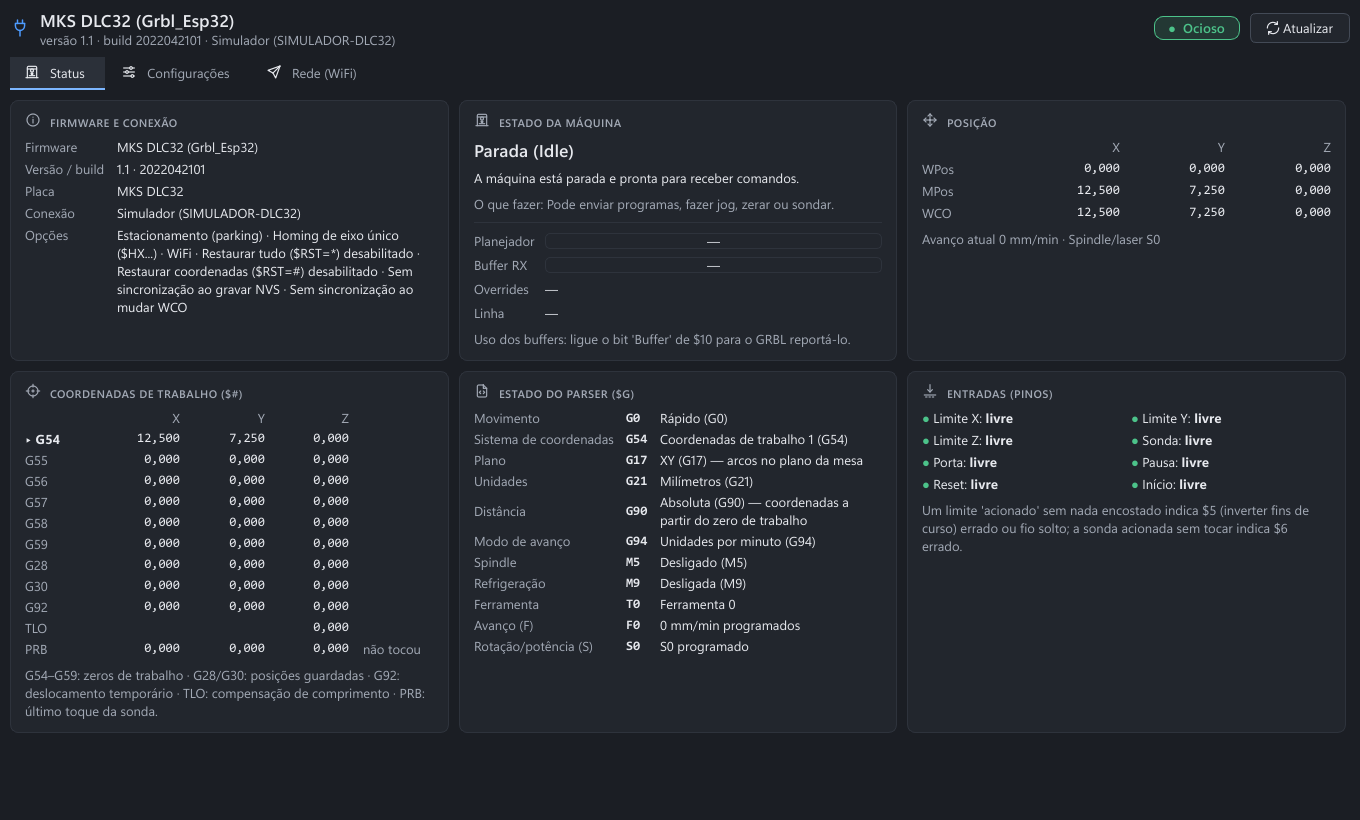
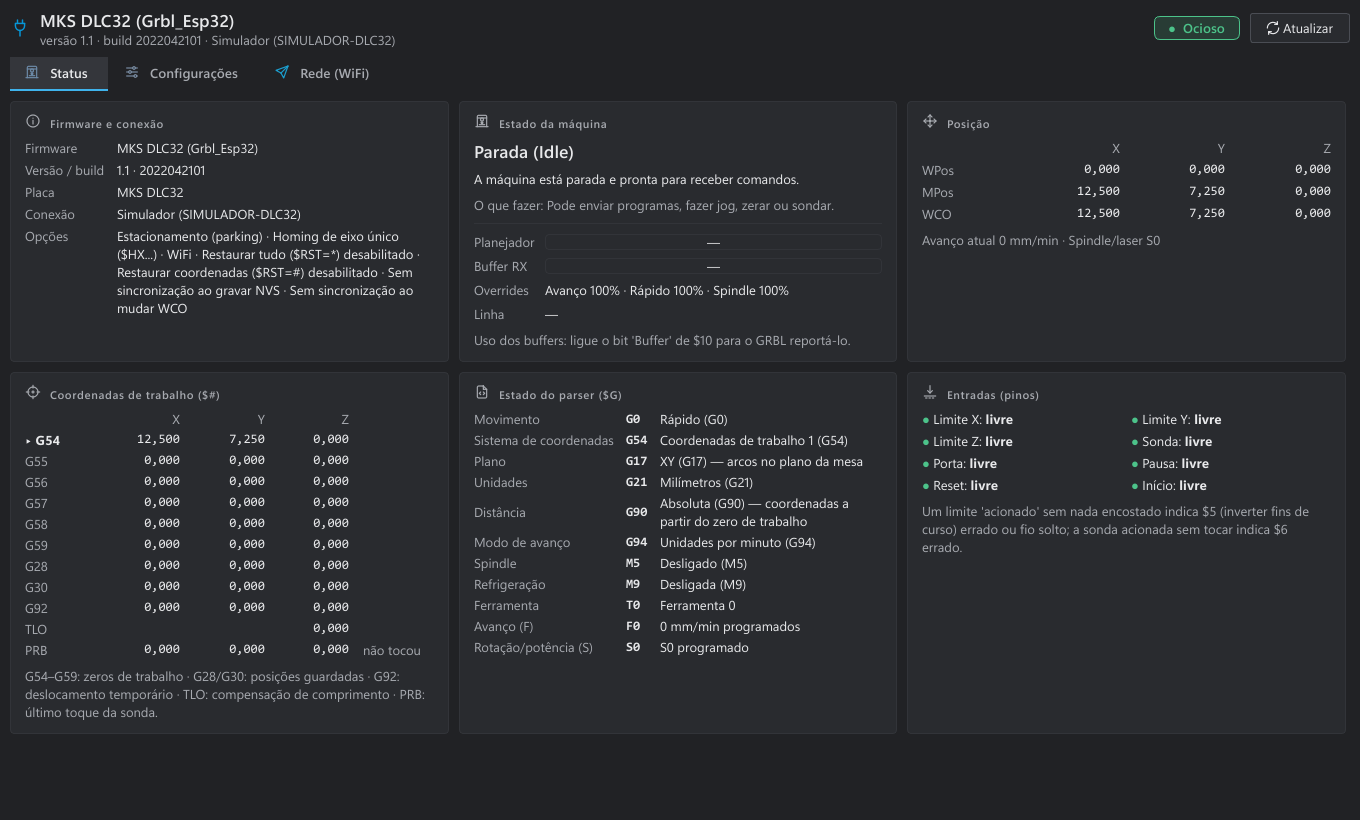
docs: atualiza README, CHANGELOG, AGENTS e capturas de tela
Claude-Session: https://claude.ai/code/session_01G2gJ6e83D3Mbc7DnEztVLo

diff --git a/AGENTS.md b/AGENTS.md
@@ -19,7 +19,7 @@ Máquina real do dono: **MKS DLC32 (Grbl_Esp32, firmware 1.1h)**, porta **COM19*
 
 ```bash
 .venv/Scripts/python.exe run.py                 # app (ou duplo clique em BrokCAM.bat)
-.venv/Scripts/python.exe -m pytest -q           # suíte completa: ~284 testes, ~4–5 min
+.venv/Scripts/python.exe -m pytest -q           # suíte completa: ~350 testes, ~4–5 min
 .venv/Scripts/python.exe -m pytest -q tests/test_cam.py   # um arquivo
 .venv/Scripts/python.exe -m pyflakes brokcam    # lint rápido (instalado no venv)
 ```
@@ -46,7 +46,7 @@ Dependências só descem: `ui → machine/gcode/cam → parsers → core`. **Som
 | `core/` | `model.py`, `params.py`, `serialize.py` | Dataclasses compartilhadas (`GerberLayer`, `DrillLayer`, `GeometryLayer`, `Tool`, `CutParams`, `PathOp`, `Job`); sistema de opções explicadas; JSON de jobs/camadas |
 | `parsers/` | `gerber.py`, `excellon.py`, `detect.py` | RS-274X/X2 e Excellon vetorizados (shapely 2); `load_file`, `guess_role` |
 | `cam/` | `isolation.py`, `ncc.py`, `cutout.py`, `drilling.py`, `panelize.py`, `optimize.py`, `operations.py`, `common.py`, `tools.py`, `library.py`, `edit.py` | Operações puras `func(layer, settings, progress=None, cancel=None) -> Job`; registro `OPERATIONS`; biblioteca de ferramentas; edição manual de caminhos |
-| `gcode/` | `grbl.py`, `preview.py`, `autolevel.py` | Pós-processador GRBL (`GRBL_POST`, `generate_gcode/generate_program`), parser para preview/tempo, heightmap |
+| `gcode/` | `grbl.py`, `preview.py`, `autolevel.py`, `importer.py` | Pós-processador GRBL (`GRBL_POST`, `generate_gcode/generate_program`), parser para preview/tempo, heightmap, importação de G-code → `Job` + `GeometryLayer` (`GCODE_IMPORT`) |
 | `machine/` | `grbl.py`, `transport.py`, `simulator.py`, `grbl_codes.py`, `firmware.py` | Controlador GRBL em Python puro (threads + callbacks), serial/TCP, simulador, textos de erro/alarme/`$$`, catálogo Grbl_Esp32/DLC32 |
 | `ui/` | ver abaixo | PySide6 |
 
@@ -62,7 +62,7 @@ UI (`brokcam/ui/`):
 - `param_form.py` — formulário automático a partir de `ParamGroup`, ajuda contextual, presets.
 - `machine_panel.py` (`MachinePanel`, `GrblBridge`), `machine_tools.py` (posição/offset Z, sonda, heightmap, fins de curso, macros), `machine_config.py` (`$$` e config DLC32).
 - Diálogos: `align_dialog.py`, `double_sided.py`, `tool_library.py`, `preferences.py`, `help_dialogs.py`, `wizard.py`, `welcome.py`.
-- `theme.py` (paletas escuro/claro/alto contraste + QSS), `icons.py` + `icons/*.svg` (ícones próprios, recoloridos pelo tema), `backend.py` (fachada para os módulos não-UI), `workers.py` (`QThreadPool`), `settings.py` (`%APPDATA%\BrokCAM`).
+- `theme.py` (bases `BASES` escuro/claro/grafite/azul-aço/meia-noite + alto contraste, cor de destaque `ACCENTS` → `derive_palette` com ajuste AA automático, `Style` (degradê, cantos, densidade, ícones coloridos `ICON_TINTS`) e QSS), `icons.py` + `icons/*.svg` (ícones próprios, recoloridos pelo tema), `backend.py` (fachada para os módulos não-UI), `workers.py` (`QThreadPool`), `settings.py` (`%APPDATA%\BrokCAM`).
 
 `_reference/` = FlatCAM decompilado, **só consulta** (não importe, não copie a arquitetura).
 
@@ -125,6 +125,25 @@ UI (`brokcam/ui/`):
   devolve essa broca por T e alimenta a coluna *Broca* da tabela (só visível quando difere do furo).
   Nomes de job repetidos ganham " (2)" (`MainWindow._unique_job_name`). O comentário do G-code é
   `(Op Tn da maquina … : Furos broca Ø… - arquivo Tm)`.
+- **Furação — broca escolhida à mão** (`mapping="manual"`): `bit_map` = `"0,79=0,8; 1,02=1; 3,2=fresa"`
+  (`parse_bit_map`/`format_bit_map`, casamento por Ø com tolerância 0,001 mm). Diâmetros sem escolha seguem
+  `available_drills` + `library_rule`; escolhidos à mão nunca são fresados automaticamente (só com `fresa`).
+  Na UI: `DrillTable(multi=True)` + `OperationPanel._assign_bits` (botão *Atribuir broca*); ao sair de outro modo
+  só as linhas cuja broca mudaria são fixadas (as demais continuam "automáticas", sem ✎).
+- **Importar G-code** (`gcode/importer.py`): blocos por troca de ferramenta / comentário `(Op …)`; corte = avanço
+  com Z ≤ `cut_z_threshold`; descida+subida sem XY = furo; passadas repetidas (inclusive em zigue-zague) =
+  multiprofundidade (`depth_per_pass` = maior passo entre níveis); profundidades diferentes = ops separadas com a
+  mesma ferramenta. O job sai com `settings["edited"]=True, "imported"=True` (salvo com os caminhos no `.bcam`),
+  `job.gcode` = texto original (enviado sem mudanças até editar; `settings["regenerated"]` após o pós) e
+  `source_id` = a `GeometryLayer` criada (linhas + círculos dos furos; oculta se `make_geometry=False`).
+  `open_files` com `.nc` → `import_gcode_files`; `view_gcode_dialog` mantém o "só visualizar/enviar".
+  Inspetor: tabela *Ferramentas e cortes* (`_add_imported_params`, uma coluna por op) → `editOpsRequested` →
+  `EditJobOpsCmd`. `open_project` aceita job com `ops` e `source=-1`.
+- **Aparência:** `MainWindow._build_appearance_menu` (Exibir › Aparência e botão da faixa) grava `theme`, `accent`,
+  `accent_custom`, `canvas_style`, `corners`, `density`, `colored_icons` (grupo `ui`) e chama
+  `theme.manager().configure(**_style_kwargs())`. Use `palette().accent_fg` (não `accent`) quando o destaque for COR
+  DE TEXTO; ícone sobre botão `primary` sempre com `icon(nome, "accent_text")`. O degradê do canvas é fixo na tela
+  (`drawBackground` + `scrollContentsBy`). Em QSS, subcontrole antes do estado (`QCheckBox::indicator:focus`).
 - **Nomes de arquivo G-code:** sempre por `main_window.safe_gcode_filename` (ASCII, vírgula decimal → `-`).
   `save_all_gcode` (Ctrl+Shift+E) grava um `.nc` por caminho numa pasta, perguntando antes de sobrescrever.
 - **Deslocar/espelhar camada sem grupo** (`Project.set_layer_transform`) também move os caminhos dela

diff --git a/CHANGELOG.md b/CHANGELOG.md
@@ -7,7 +7,35 @@ usa [Versionamento Semântico](https://semver.org/lang/pt-BR/) — veja
 
 ## [Não lançado]
 
-_Nada ainda._
+### Adicionado
+- **Furação — escolher a broca de cada diâmetro** (fluxo do FlatCAM): nova *Associação de
+  diâmetros → Escolher a broca de cada diâmetro*. Na tabela *Diâmetros de furo* selecione vários
+  diâmetros (Ctrl/Shift+clique) e use *Atribuir broca aos selecionados* (brocas da lista, outro
+  diâmetro, o próprio diâmetro, fresar com a fresa de topo ou automático). *Gerar caminho* faz
+  tudo num só G-code, com uma pausa de troca por broca. A escolha fica em `bit_map`
+  (`0,79=0,8; 1,02=1; 3,2=fresa`), marcada com ✎ na coluna *Broca*; diâmetros sem escolha seguem
+  a regra da lista de brocas. *Gerar os N diâmetros num G-code* gera só os selecionados.
+- **Abrir G-code como caminhos editáveis** (*Arquivo → Importar G-code como caminhos…*,
+  Ctrl+Shift+O; também ao abrir/arrastar `.nc`): cada arquivo vira um caminho + uma camada de
+  geometria (vários arquivos = um grupo). Reconhece trocas de ferramenta, furos (inclusive em
+  bicadas e ciclos G81/G83), passadas repetidas (viram multiprofundidade), arcos, polegadas e
+  laser; lê Ø/formato da ferramenta dos comentários do BrokCAM/FlatCAM. Sem editar, o envio usa o
+  texto original; a tabela *Ferramentas e cortes* do inspetor muda Ø, Z, avanços e rotação
+  (Ctrl+Z desfaz) e o G-code passa a ser gerado pelo pós-processador. Salvo no `.bcam`.
+  Opções em *Preferências → Importar G-code*. O antigo "só visualizar/enviar" continua em
+  *Arquivo → Abrir G-code só para visualizar/enviar…* e no botão *Abrir…* do painel G-code.
+- **Interface estilo CAD (Fusion 360 / Inventor):** temas *Grafite*, *Azul-aço* e *Meia-noite*
+  além de Claro/Escuro (cinzas neutros redesenhados) e Alto contraste; **cor de destaque**
+  (11 cores ou personalizada, sempre ajustada para AA); **fundo em degradê** no canvas e na tela
+  inicial; **ícones coloridos**; **cantos** (suaves/arredondados/retos) e **densidade**
+  (confortável/compacta). Menu *Exibir → Aparência* e botão de aparência na faixa de comandos.
+- Seletor *Preparar/Máquina* no início da faixa (como o seletor de espaço do Fusion) e títulos
+  dos painéis em versalete.
+
+### Corrigido
+- Caixas de seleção dos formulários apareciam com uma borda de foco em volta do campo inteiro.
+- Ícones de botões principais (*Abrir arquivos…*, *Conectar*, *Iniciar*) sem a cor de texto do
+  botão.
 
 ## [0.3.0] — 2026-10-30
 

diff --git a/README.md b/README.md
@@ -39,10 +39,18 @@ fluxo do FlatCAM com outra proposta:
 - **Isolamento de trilhas** com fresa em V ou de topo, vários passes e aviso de curtos entre trilhas.
 - **Limpeza de cobre (NCC)**, **recorte com pontes**, **painelização** e **placas dupla face**.
 - **Furação por diâmetro:** cada diâmetro com cor própria e furo no tamanho real; tabela com
-  contagem por broca; um G-code por broca com um clique.
+  contagem por broca; um G-code por broca com um clique — ou **escolha a broca de cada
+  diâmetro** (vários diâmetros → uma broca real, como no FlatCAM) e gere tudo num só G-code,
+  com uma troca por broca.
+- **Abrir G-code como projeto:** arquivos `.nc`/`.gcode` (do BrokCAM, FlatCAM ou outro CAM) viram
+  caminhos editáveis + geometria — mova com a placa, edite caminhos, troque profundidade/avanço/
+  rotação e gere o G-code de novo.
 - **Biblioteca de ferramentas** e **presets** com os dados de corte que funcionam na sua máquina.
 - **Edição manual de caminhos**: excluir, apagar trecho, inverter sentido, reotimizar a ordem.
 - Desfazer/refazer em tudo que altera o projeto.
+- **Interface no estilo CAD** (Fusion 360 / Inventor): temas Claro, Escuro, Grafite, Azul-aço,
+  Meia-noite e Alto contraste, cor de destaque à escolha (inclusive personalizada), fundo em
+  degradê, ícones coloridos, cantos e densidade ajustáveis — tudo com contraste AA.
 
 ### Gerar
 - Pós-processador **GRBL 1.1** (fresadora, laser `$32=1`, sem troca de ferramenta) com offset Z.
